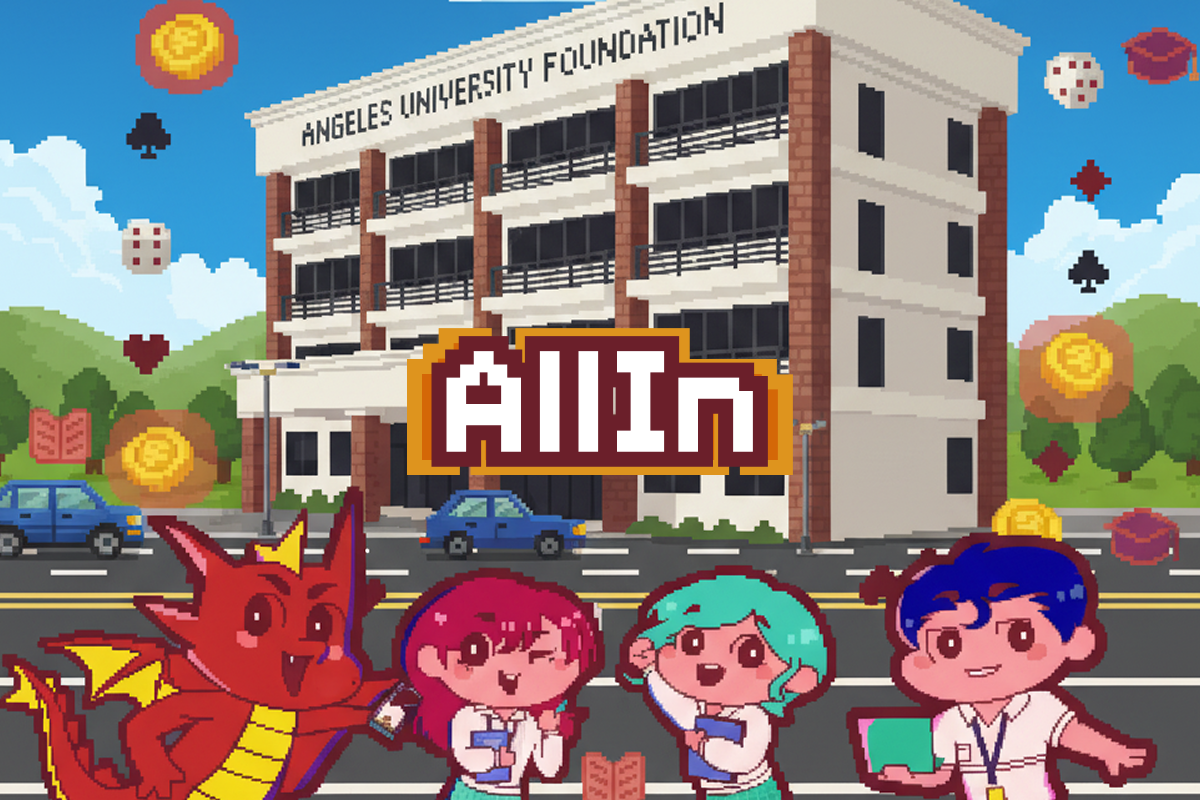
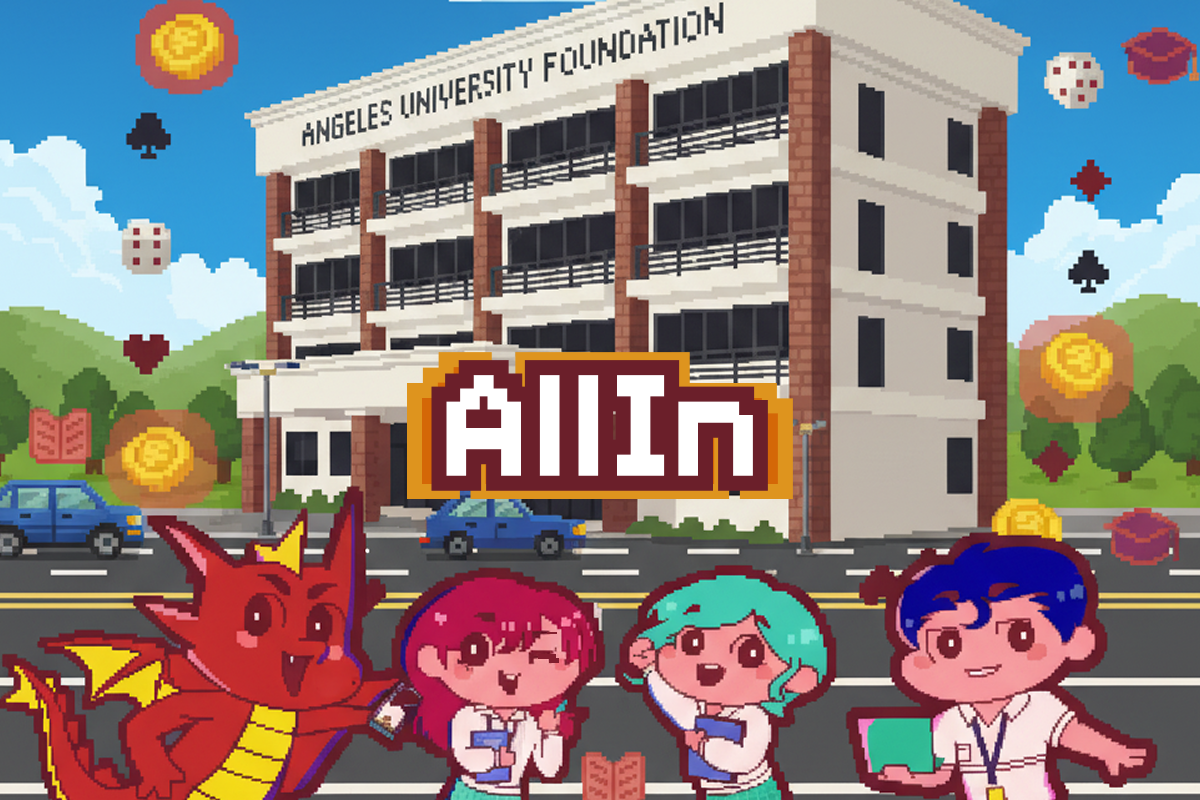
update ui and bgs

Changed region(s): [[0.3392, 0.4062, 0.6783, 0.625]]

diff --git a/Zingo/All-In/screens/Start_Page.py b/Zingo/All-In/screens/Start_Page.py
@@ -6,6 +6,7 @@ from kivy.uix.screenmanager import Screen
 from kivy.graphics import Rectangle, Color
 from kivy.core.window import Window
 from kivy.app import App
+from kivy.uix.image import Image
 
 
 class StartPage(Screen):
@@ -30,21 +31,22 @@ class StartPage(Screen):
     def _add_background(self):
         """Add and auto-resize background image."""
         with self.layout.canvas:
-            Color(0.3, 0.2, 0.6, 0.8)
+            Color(0.5, 0.5, 0.5, 0.8)
             self.bg_rect = Rectangle(source=self.bg_path, size=Window.size, pos=(0, 0))
 
         Window.bind(on_resize=self._update_bg_size)
 
     def _add_title(self):
-        """Add main title label."""
-        title = Label(
-            text="All-In",
-            font_size=81,
-            color=(1, 1, 1, 1),
-            pos_hint={'center_x': 0.5, 'top': 1.15},
-            font_name=self.font_path
+        """Add main title image, centered horizontally and vertically."""
+        title_image = Image(
+            source='png_icons/allintitle.png',
+            size_hint=(0.8, 0.4),
+            # Centered 
+            pos_hint={'center_x': 0.5, 'center_y': 0.60},
+            allow_stretch=True,
+            keep_ratio=True
         )
-        self.layout.add_widget(title)
+        self.layout.add_widget(title_image)
 
     def _add_buttons(self):
         """Create and place Start, Custom, Quit buttons."""

diff --git a/Zingo/All-In/paths.py b/Zingo/All-In/paths.py
@@ -5,9 +5,9 @@ import os
 BASE_DIR = os.path.dirname(__file__)
 
 # --- Resource paths ---
-HOME_BG_PATH = os.path.join(BASE_DIR, "backgrounds", "allinbg.png")
-GAME_BG_PATH = os.path.join(BASE_DIR, "backgrounds", "gamepage_bg.jpg")
-CUSTOM_BG_PATH = os.path.join(BASE_DIR, "backgrounds", "custompage_bg.jpg")
+HOME_BG_PATH = os.path.join(BASE_DIR, "backgrounds", "homepage_bg.png")
+GAME_BG_PATH = os.path.join(BASE_DIR, "backgrounds", "gamebg.png")
+CUSTOM_BG_PATH = os.path.join(BASE_DIR, "backgrounds", "custombg.png")
 
 TITLE_IMG_PATH = os.path.join(BASE_DIR, "png_icons", "allintitle.png")
 

diff --git a/Zingo/All-In/screens/Roulette_Page.py b/Zingo/All-In/screens/Roulette_Page.py
@@ -87,7 +87,7 @@ class RoulettePage(Screen):
             text="[b]CONGRATULATIONS![/b]\nYou reached the required points!",
             markup=True,
             font_size='32sp',
-            color=(1, 0.9, 0.2, 1),
+            color=(1, 1, 1, 1),
             font_name=App.get_running_app().font_path,
             halign='center',
             valign='middle',

diff --git a/Zingo/All-In/main.py b/Zingo/All-In/main.py
@@ -1,4 +1,3 @@
-# main.py
 from kivy.config import Config
 from kivy.app import App
 from kivy.uix.screenmanager import ScreenManager
